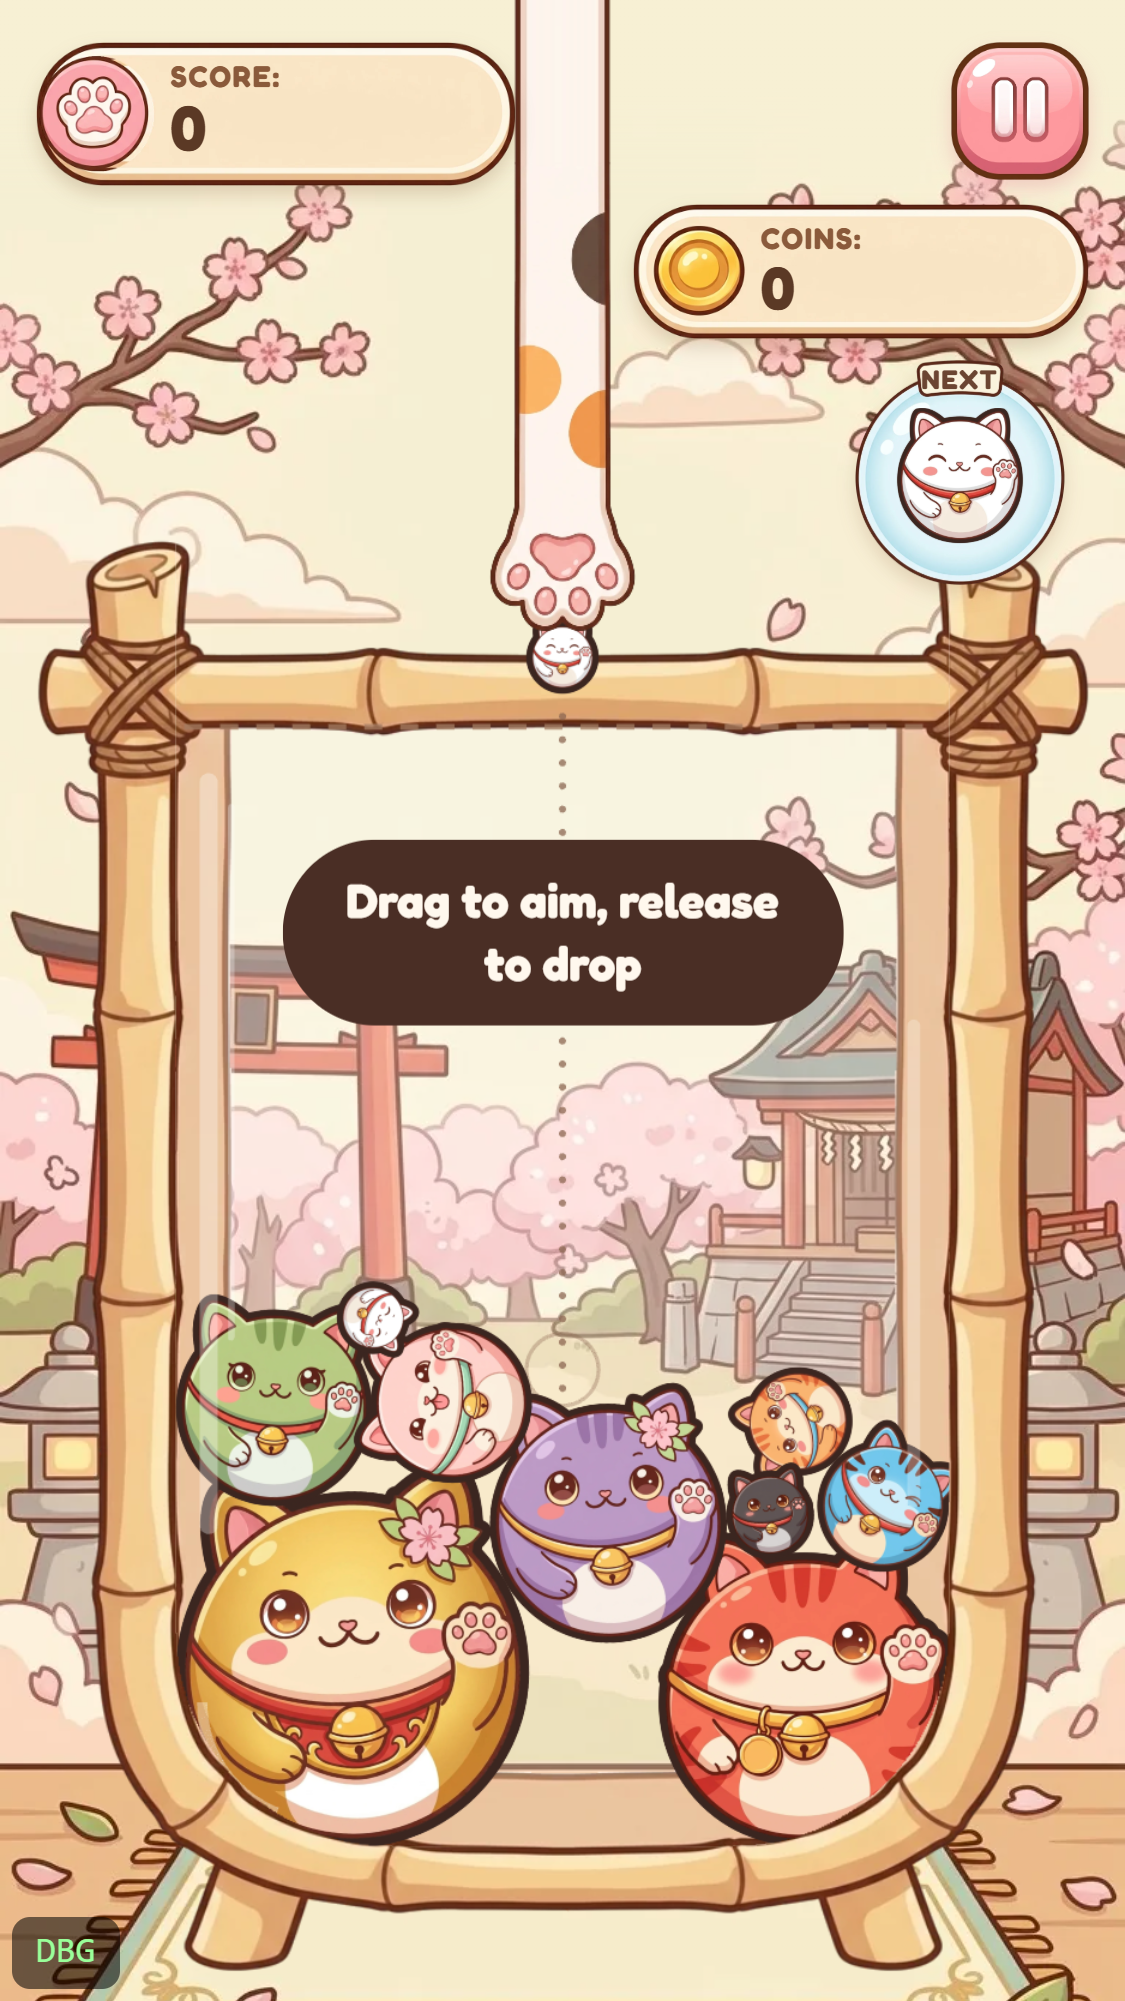
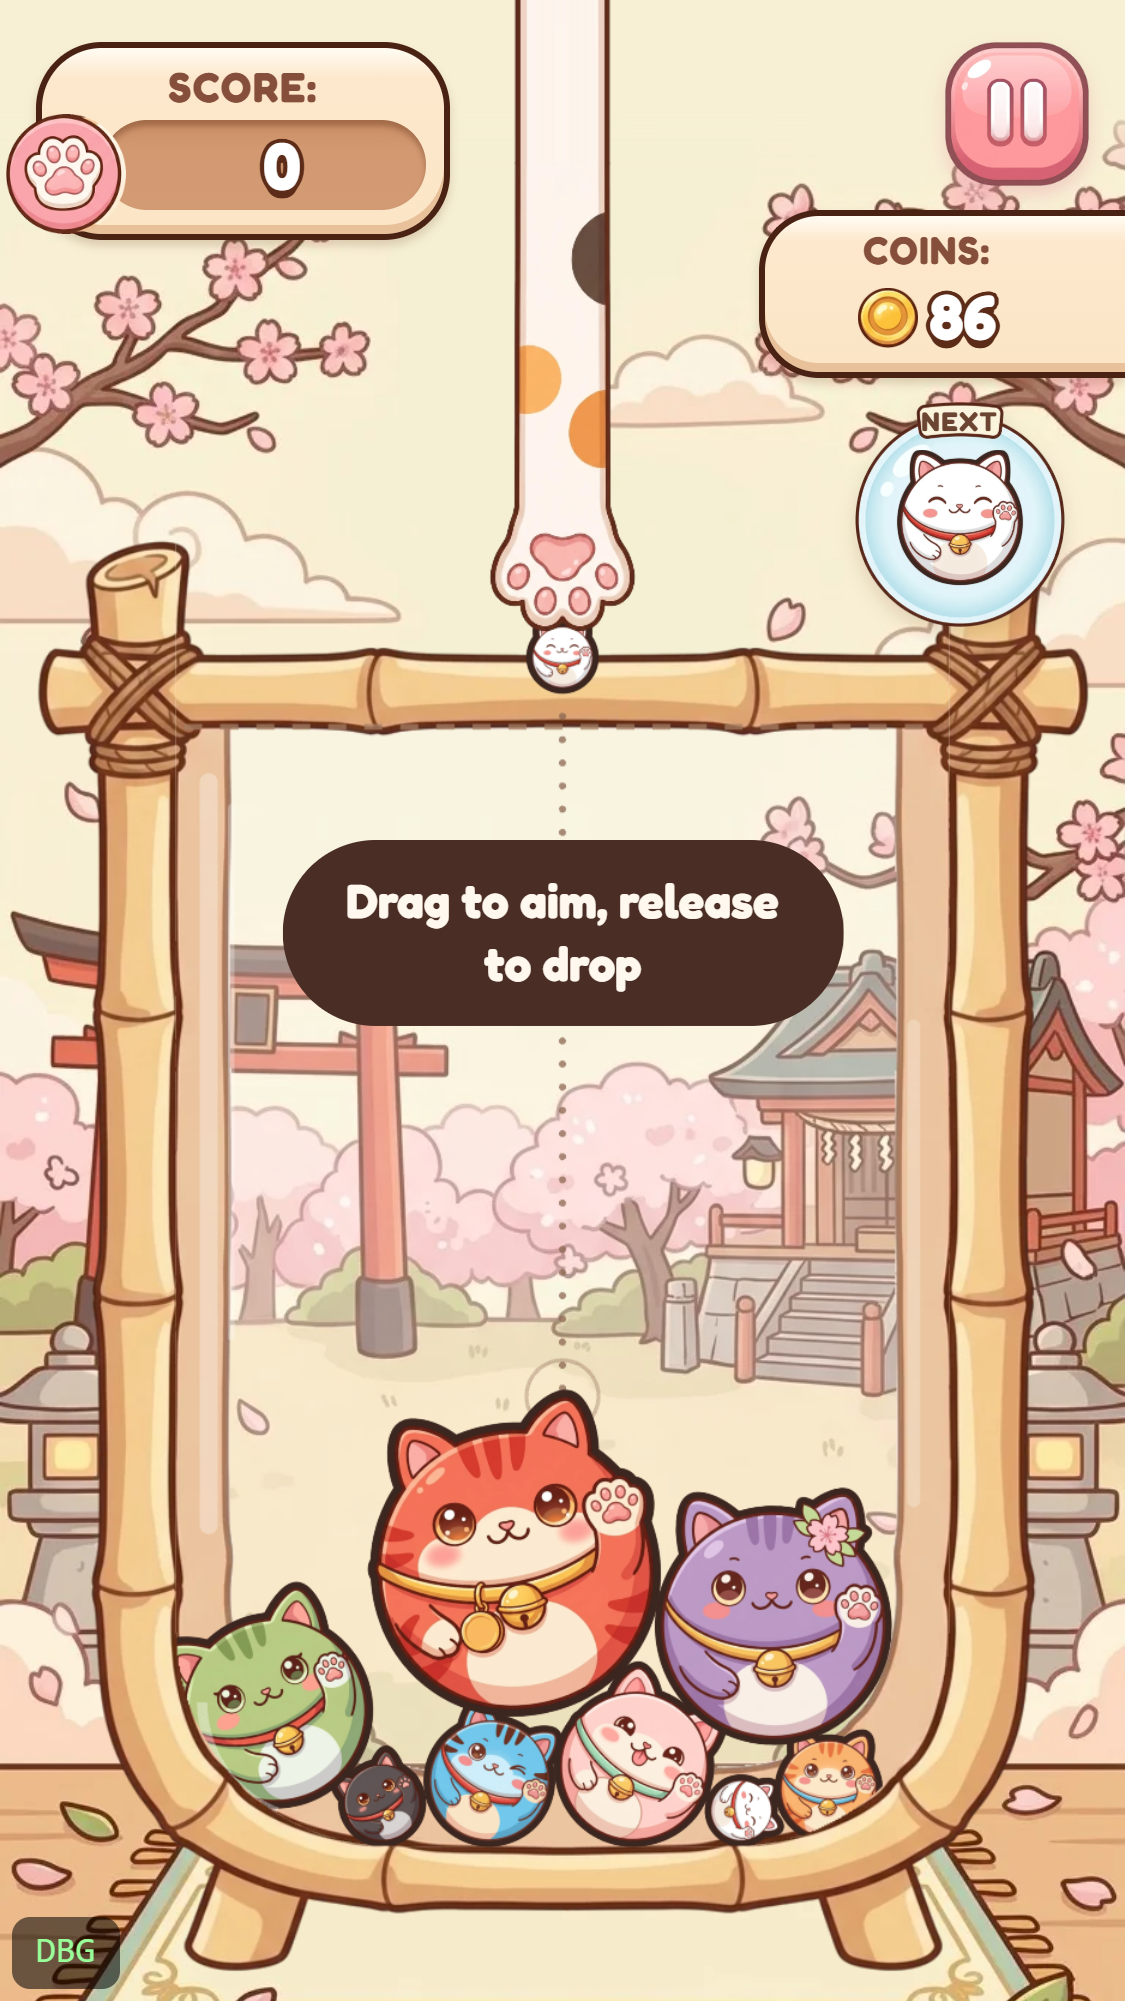
docs: the reference-measured HUD cards; bump to 0.19.2

Changed region(s): [[0.1556, 0.6197, 0.84, 0.9295], [0.56, 0.0, 1.0, 0.3408], [0.0, 0.0, 0.4667, 0.1239]]

diff --git a/docs/GAME_DESIGN.md b/docs/GAME_DESIGN.md
@@ -284,7 +284,7 @@ The owner chose the scene in a design canvas (v0.14): a cream shrine garden, ink
 - **Jar** (v0.17 art; v0.14 layout): a bamboo U frame with curved bottom corners on two bamboo feet, a rail across the top tied to the posts with twine, and cut caps on the posts. The art's opening is stretched onto the physics jar (its inner edge, the glass's pale rim, lies inside the opening, behind the cats); the bamboo is drawn in front of the cats. Its corners are a little rounder than the physics corners (radius 168 against 112), so a cat deep in a corner tucks a few pixels behind the bamboo. A dashed line across the opening marks the rim (the danger line) and flashes red in danger (the vector jar's caps flash too). The glass is a pale wash, so the garden shows through it. The bamboo is thicker than the vector frame's, so the camera shows 0.19 of the jar's width beside each wall (0.15 before v0.17): a 283 px jar on a 390 px phone.
 - **Dropper** (v0.17 art): a calico paw (white with orange and dark spots, pink pads) hanging from the top of the screen; a plain row of its arm is stretched up to the screen's top.
 - **Background** (v0.17 art): a painted sakura shrine garden: sakura branches and clouds on a cream sky, a torii and a shrine seen through the glass, stone lanterns either side, and a rug on the wooden floor where the jar stands. It moves and scales with the jar so the feet stay on the rug; it always spans the screen's width, its top fades into the sky colour, and the floor colour fills the screen below it. The separate rug image is unused: the background has its own.
-- **HUD** (v0.19 art, v0.19.1 layout from the owner's reference): the score card is a soft square in the coins card's colours (cream, dark outline, tan bottom edge), with the art's pink paw badge over its top-left corner, "SCORE:" beside it and the score in a sunken tan well. The coins card is the owner's image, run off the screen's right edge so it seems to come out of it, with a gold coin, "COINS:" and the run's coins. Both numbers are white with a thin brown edge. The next cat sits in a round pale blue glass bubble with a cream "NEXT" tag; the pause button is a glossy pink square. Flying coins land on the card's coin. The vector HUD of v0.14 stays for `?skin=vector`.
+- **HUD** (v0.19 art, v0.19.2 cards after the owner's reference image): both cards are CSS in the reference's style: cream with a thin dark outline, rounded corners and a tan bottom edge. The score card (138 × 66 px) has "SCORE:" centred on top and the score in a rounded tan well, with the art's pink paw badge over its left edge. The coins card comes out of the screen's right edge (rounded on the left only) with "COINS:" centred over the art's small gold coin and the run's coins, evenly spaced. Both numbers are white with a thin brown edge. The next cat sits in a round pale blue glass bubble with a cream "NEXT" tag; the pause button is the art's glossy pink square, its outline recoloured to the reference's rose brown. Flying coins land on the coin. The vector HUD of v0.14 stays for `?skin=vector`.
 - **Palette**: cream ground, paper plates, ink outlines and text, cocoa for labels; coral only for the primary button of a screen (PLAY, Resume, Play Again), gold for coins, rewards and progress, red for danger and badges, mint for secondary buttons and "on". One font: Fredoka (700 for titles, numbers and buttons; 500–600 for labels).
 
 ### 13.2 Placeholder (`?skin=placeholder`)

diff --git a/docs/TECH_SPEC.md b/docs/TECH_SPEC.md
@@ -296,7 +296,7 @@ Data flow: pointer input (game) → `RunController.drop(x)` → PhysicsWorld ste
   - Jar: cuts the white outside and the white opening, measures the opening from the bamboo's dark inner outline (walls, floor, the rail's underside as the rim, and the corner radius by best fit), and splits the image: inside the opening (the glass's rim, the rail) → `jar-back.webp`, the rest (the bamboo) → `jar-front.webp`. Each layer is cut into pieces (40-row bands, column runs) so the see-through middle costs no fill rate.
   - Paw: cuts the white (but not the arm's fur where it runs off the top edge), crops, finds a plain arm row and the paw's width.
   - Background: converts it and samples the sky and floor colours.
-- `tools/buildHud.ts` (v0.19), for `art-source/hud/coins`, `score`, `next` and `pause`: cuts and crops each; finds the coins card's gold coin (the text goes after it); cuts the pink paw badge (its disc and outline) out of the score image (the score card itself is CSS, v0.19.1); measures the bubble's circle and the cream tag on its rim. Data in `src/config/hudSpriteData.ts`; `ui/hud/hud.ts` uses the images as CSS backgrounds with the live text on top (`is-art`).
+- `tools/buildHud.ts` (v0.19), for `art-source/hud/coins`, `score`, `next` and `pause`: cuts the coin out of the coins card (found by its outline on the card's middle row) and the paw badge out of the score image (a circle fitted to the left half of its outline: on the right it overlaps the panel); measures the bubble's circle and the cream tag on its rim; recolours the pause button's dark-brown outline to the reference's rose brown. The cards themselves are CSS (v0.19.2). Data in `src/config/hudSpriteData.ts`; `ui/hud/hud.ts` (`is-art`).
 - Still to come with their art: the menu art, and the PWA icons and iOS splash screens from `art-source/app-icon.png`.
 
 ## 15. Phaser 4 notes for agents

diff --git a/CHANGELOG.md b/CHANGELOG.md
@@ -2,6 +2,16 @@
 
 All notable changes to this project are documented here. Versions follow [Semantic Versioning](https://semver.org/).
 
+## [0.19.2] - 2026-10-07
+
+The HUD cards measured against the owner's reference image.
+
+### Changed
+
+- The score card is shorter (66 px) with a thinner outline and softer corners; "SCORE:" is centred, and the score's well is a rounded pill in the reference's warm tan.
+- The coins card is a small card (no longer a long strip) coming out of the screen's right edge, rounded on the left only: "COINS:" centred and bigger, and under it a small coin with the number, evenly spaced. It is CSS now; the tool cuts the coin out of the generated card.
+- The pause button's outline is the reference's rose brown instead of dark brown.
+
 ## [0.19.1] - 2026-10-07
 
 The HUD closer to the owner's reference image.

diff --git a/docs/ART_ASSETS.md b/docs/ART_ASSETS.md
@@ -265,8 +265,8 @@ no shadow. Portrait 2:3.
 ### 4.4 Phase 3: HUD
 
 **Done (2026-10-07):** the coins card, the pause button and the next bubble are in the game (v0.19).
-The generator couldn't draw the score card in the coins card's style, so the score card is drawn in
-CSS (v0.19.1) with the paw badge cut out of the score image. The stage card was dropped until it has art.
+The generator couldn't draw the cards in the reference's proportions, so both cards are CSS
+(v0.19.2) with the coin and the paw badge cut out of the generated images. The stage card was dropped until it has art.
 
 **HUD kit sheet** (`hud/hud-kit.png`), elements well apart on a white background:
 
